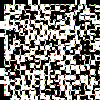
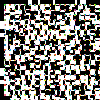
Updated canada.pymy1.png .

diff --git a/canada.py b/canada.py
@@ -28,12 +28,12 @@ outp=np.asarray(outp)
 img = Image.fromarray(outp, 'RGB')
 img.save('my.png')
 moverPieza(outp,18,1,0,0)
-moverPieza(outp,0,16,0,9)
+moverPieza(outp,0,16,0,3)
 moverPieza(outp,1,4,0,2)
 moverPieza(outp,1,9,0,1)
 moverPieza(outp,2,8,0,7)
 moverPieza(outp,3,0,0,14)
-moverPieza(outp,4,7,0,3)
+moverPieza(outp,4,7,0,9)
 moverPieza(outp,5,3,0,17)
 moverPieza(outp,7,17,0,13)
 moverPieza(outp,8,8,0,12)
